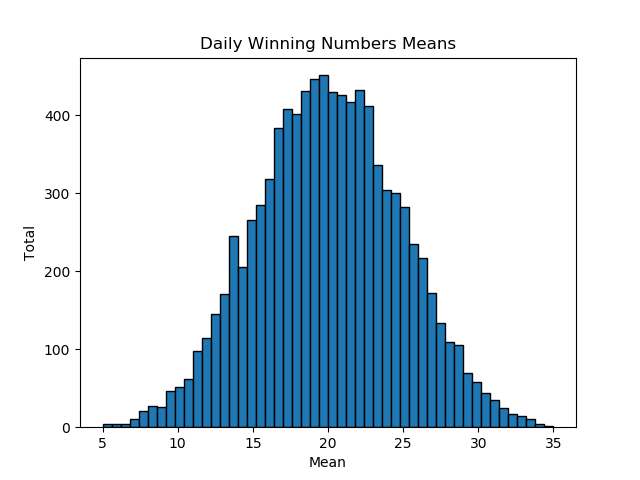
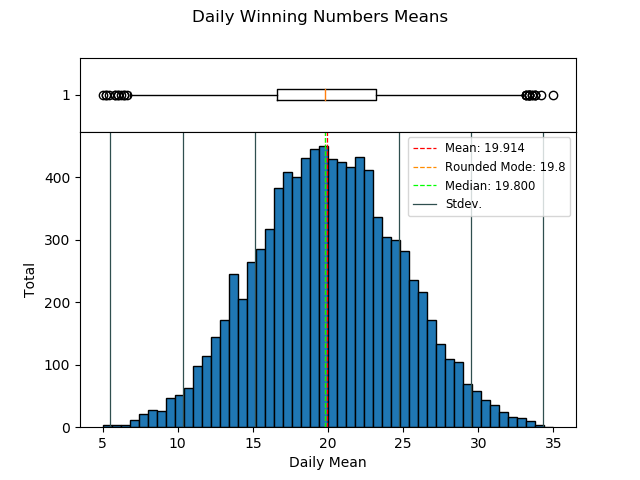
plots, readme, todo: cleanup

diff --git a/fantasy5stats.py b/fantasy5stats.py
@@ -70,59 +70,102 @@ def print_stats(histogram_items, histogram_dict, ascend_hist, tot_cnt, tot_sum, 
     print("Count Mode  : {}     ({:.3f}%)".format(cnt_mode, (cnt_mode / tot_cnt)*100))
     cnt_stdev = pstdev(histogram_dict.values())
     print("Count Stdev.: {:.3f}   ({:.3f}%)\n".format(cnt_stdev, (cnt_stdev / tot_cnt)*100))
+
+    mean_daily_means = mean(daily_means)
+    stdev_daily_means = pstdev(daily_means)
+    daily_means_rounded = [*map(lambda x: round(x, 1), daily_means)]
     print("Numbers Total Sum     : {}".format(tot_sum))
     print("Numbers Total Sum Mean: {:.3f}\n".format(tot_sum / tot_cnt))
     print("Numbers Daily Mean Max   : {:.3f}".format(daily_means[-1]))
     print("Numbers Daily Mean Min.  : {:.3f}".format(daily_means[0]))
-    print("Numbers Daily Mean Mean  : {:.3f}".format(mean(daily_means)))
+    print("Numbers Daily Mean Mean  : {:.3f}".format(mean_daily_means))
     print("Numbers Daily Mean Median: {:.3f}".format(median(daily_means)))
     print("Numbers Daily Mean Mode  : {:.3f}".format(mode(daily_means)))
-    print("Numbers Daily Mean Stdev.: {:.3f}\n".format(pstdev(daily_means)))
+    print("Numbers Daily Mean Rounded Mode  : {:.3f}".format(mode(daily_means_rounded)))
+    print("Numbers Daily Mean Stdev.: {:.3f}\n".format(stdev_daily_means))
+
+    mean_daily_stdevs = mean(daily_stdevs)
+    stdev_daily_stdevs = pstdev(daily_stdevs)
+    daily_stdevs_rounded = [*map(lambda x: round(x, 1), daily_stdevs)]
     print("Numbers Daily Stdev. Max           : {:.3f}".format(daily_stdevs[-1]))
     print("Numbers Daily Stdev. Min.          : {:.3f}".format(daily_stdevs[0]))
-    print("Numbers Daily Stdev. Mean          : {:.3f}".format(mean(daily_stdevs)))
+    print("Numbers Daily Stdev. Mean          : {:.3f}".format(mean_daily_stdevs))
     print("Numbers Daily Stdev. Median        : {:.3f}".format(median(daily_stdevs)))
     print("Numbers Daily Stdev. Mode          : {:.3f}".format(mode(daily_stdevs)))
-    daily_stdevs_rounded = [*map(round, daily_stdevs)]
     print("Numbers Daily Stdev. Rounded Mode  : {:.3f}".format(mode(daily_stdevs_rounded)))
-    print("Numbers Daily Stdev. Stdev.        : {:.3f}".format(pstdev(daily_stdevs)))
-    print("Numbers Daily Stdev. Rounded Stdev.: {:.3f}\n".format(pstdev(daily_stdevs_rounded)))
+    print("Numbers Daily Stdev. Stdev.        : {:.3f}".format(stdev_daily_stdevs))
+    print("Numbers Daily Stdev. Rounded Stdev.: {}\n".format(pstdev(daily_stdevs_rounded)))
+
+    daily_sums_means = [*map(lambda x: (x/5), daily_sums)]
+    daily_sums_rounded_means = [*map(lambda x: round(x, 1), daily_sums_means)]
     print("Numbers Daily Sum Max                : {}".format(daily_sums[-1]))
     print("Numbers Daily Sum Min.               : {}".format(daily_sums[0]))
     print("Numbers Daily Sum Median             : {:.3f}".format(median(daily_sums)))
     print("Numbers Daily Sum Mean               : {:.3f}".format(mean(daily_sums)))
     print("Numbers Daily Sum Mode               : {}".format(mode(daily_sums)))
     print("Numbers Daily Sum Stdev.             : {:.3f}".format(pstdev(daily_sums)))
-    daily_sums_means = [*map(lambda x: (x/5), daily_sums)]
-    daily_sums_rounded_means = [*map(round, daily_sums_means)]
     print("Numbers Daily Sum Mean Mode          : {}".format(mode(daily_sums_means)))
     print("Numbers Daily Sum Rounded Mean Mode  : {}".format(mode(daily_sums_rounded_means)))
     print("Numbers Daily Sum Mean Stdev.        : {:.3f}".format(pstdev(daily_sums_means)))
-    print("Numbers Daily Sum Rounded Mean Stdev.: {:.3f}\n".format(pstdev(daily_sums_rounded_means)))
+    print("Numbers Daily Sum Rounded Mean Stdev.: {}\n".format(pstdev(daily_sums_rounded_means)))
 
     print("Last Winning Numbers: {}".format(" ".join(current_numbers)))
     for num in current_numbers:
         print("{:>2}: {} ({:.3f}%)".format(num, histogram_dict[num], (histogram_dict[num] / tot_cnt)*100))
+
     current_numbers_int = [*map(int, current_numbers)]
     num_sum = sum(current_numbers_int)
     cnt_sum = sum([*map(lambda x: histogram_dict[x], current_numbers)])
+
     print("\nLast Winning Numbers Day Sum   : {}".format(num_sum))
     print("Last Winning Numbers Day Mean  : {:.3f}".format(num_sum / 5))
     print("Last Winning Numbers Day Stdev.: {:.3f}".format(pstdev(current_numbers_int)))
-    plt.figure(0)
+
     histogram_lists = [*map(list, zip(*histogram_items))]
-    plt.bar(histogram_lists[0], histogram_lists[1], width=0.7)
+
+    plt.figure(0)
+    plt.bar(histogram_lists[0], histogram_lists[1], width=0.75, edgecolor='black', linewidth=0.9)
     plt.title("All Winning Numbers")
-    plt.figure(1)
-    plt.hist(daily_stdevs, edgecolor='black', bins=50)
-    plt.title("Daily Winning Numbers Stdev. (Population)")
-    plt.ylabel("Total")
-    plt.xlabel("Stdev.")
-    plt.figure(2)
-    plt.hist(daily_means, edgecolor='black', bins=50)
-    plt.title("Daily Winning Numbers Means")
-    plt.ylabel("Total")
-    plt.xlabel("Mean")
+
+    stdevs_daily_stdevs = [*map(lambda x: mean_daily_stdevs + x*stdev_daily_stdevs,  [-3,-2,-1,1,2,3])]
+    figure_1, plots = plt.subplots(2, 1, gridspec_kw = {'height_ratios':[1, 4]}, sharex=True)
+    figure_1.suptitle("Daily Winning Numbers Stdevs.")
+    figure_1.subplots_adjust(hspace=0)
+    plots[0].boxplot(daily_stdevs, vert=False)
+    plots[1].hist(daily_stdevs, edgecolor='black', bins=50)
+    plots[1].set_ylabel("Total")
+    plots[1].set_xlabel("Daily Stdev.")
+    plots[1].axvline(mean(daily_stdevs), label="Mean: {:.3f}".format(mean(daily_stdevs)), linestyle="--", color="red", linewidth=0.9)
+    plots[1].axvline(median(daily_stdevs), label="Median: {:.3f}".format(median(daily_stdevs)), linestyle="--", color="#00FF00", linewidth=0.9)
+    plots[1].axvline(mode(daily_stdevs_rounded), label="Rounded Mode: {}".format(mode(daily_stdevs_rounded)), linestyle="--", color="#FF8C00", linewidth=0.9)
+    for i, stdev_stdev in enumerate(stdevs_daily_stdevs):
+        if i == 0:
+            plots[1].axvline(stdev_stdev, linestyle="-", label="Stdev.", color="#2F4F4F", linewidth=0.9)
+        else:
+            plots[1].axvline(stdev_stdev, linestyle="-", color="#2F4F4F", linewidth=0.9)
+    plots[1].legend(loc=0, fontsize="small")
+
+    stdevs_mean_daily_means = [*map(lambda x: mean_daily_means + x*stdev_daily_means,  [-3,-2,-1,1,2,3])]
+    figure_2, plots = plt.subplots(2, 1, gridspec_kw = {'height_ratios':[1, 4]}, sharex=True)
+    figure_2.suptitle("Daily Winning Numbers Means")
+    figure_2.subplots_adjust(hspace=0)
+    plots[0].boxplot(daily_means, vert=False)
+    plots[1].hist(daily_means, edgecolor='black', bins=50)
+    plots[1].set_ylabel("Total")
+    plots[1].set_xlabel("Daily Mean")
+    plots[1].axvline(mean_daily_means, label="Mean: {:.3f}".format(mean_daily_means), linestyle="--", color="red", linewidth=0.9)
+    plots[1].axvline(mode(daily_means_rounded), label="Rounded Mode: {}".format(mode(daily_means_rounded)), linestyle="--", color="#FF8C00", linewidth=0.9)
+    plots[1].axvline(median(daily_means), label="Median: {:.3f}".format(median(daily_means)), linestyle="--", color="#00FF00", linewidth=0.9)
+    for i, mean_stdev in enumerate(stdevs_mean_daily_means):
+        if i == 0:
+            plots[1].axvline(mean_stdev, linestyle="-", label="Stdev.", color="#2F4F4F", linewidth=0.9)
+        else:
+            plots[1].axvline(mean_stdev, linestyle="-", color="#2F4F4F", linewidth=0.9)
+    plots[1].legend(loc=0, fontsize="small")
+    # plt.subplot(212)
+    # plt.title("Daily Winning Numbers Means")
+    # plots[1].set_ylabel("Mean")
+
     plt.show()
 
 #### MAIN ####
@@ -147,7 +190,7 @@ def main():
     daily_sums = histogram.pop("line_sums", None)
     daily_means = histogram.pop("line_means", None)
     daily_stdevs = histogram.pop("line_stdevs", None)
-    
+
     # Sort histogram, ascending
     hist_ascend = sorted(histogram.items(), key=lambda x: x[1])
     if args.ascending == True or args.descending == True:

diff --git a/README.md b/README.md
@@ -11,8 +11,9 @@ todo: more stats, matlab plots
 
 ## Example Output (2019/04/13)
 
-![Standard Deviations](stdevs.png "Standard Deviations")
+![Standard Deviations](stdevs.png "Standard Deviations"i)
 
 ![Means](means.png "Means")
 
+![Means](counts.png "Counts")
 
